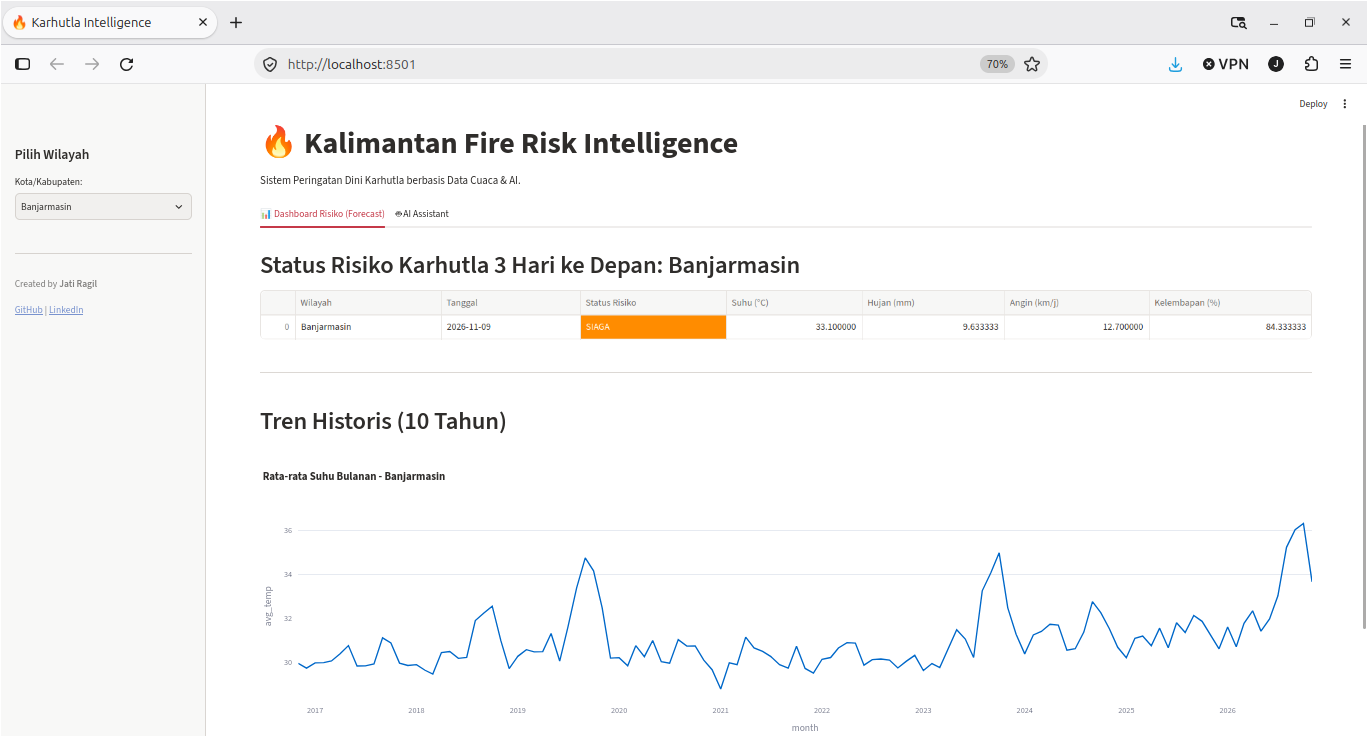
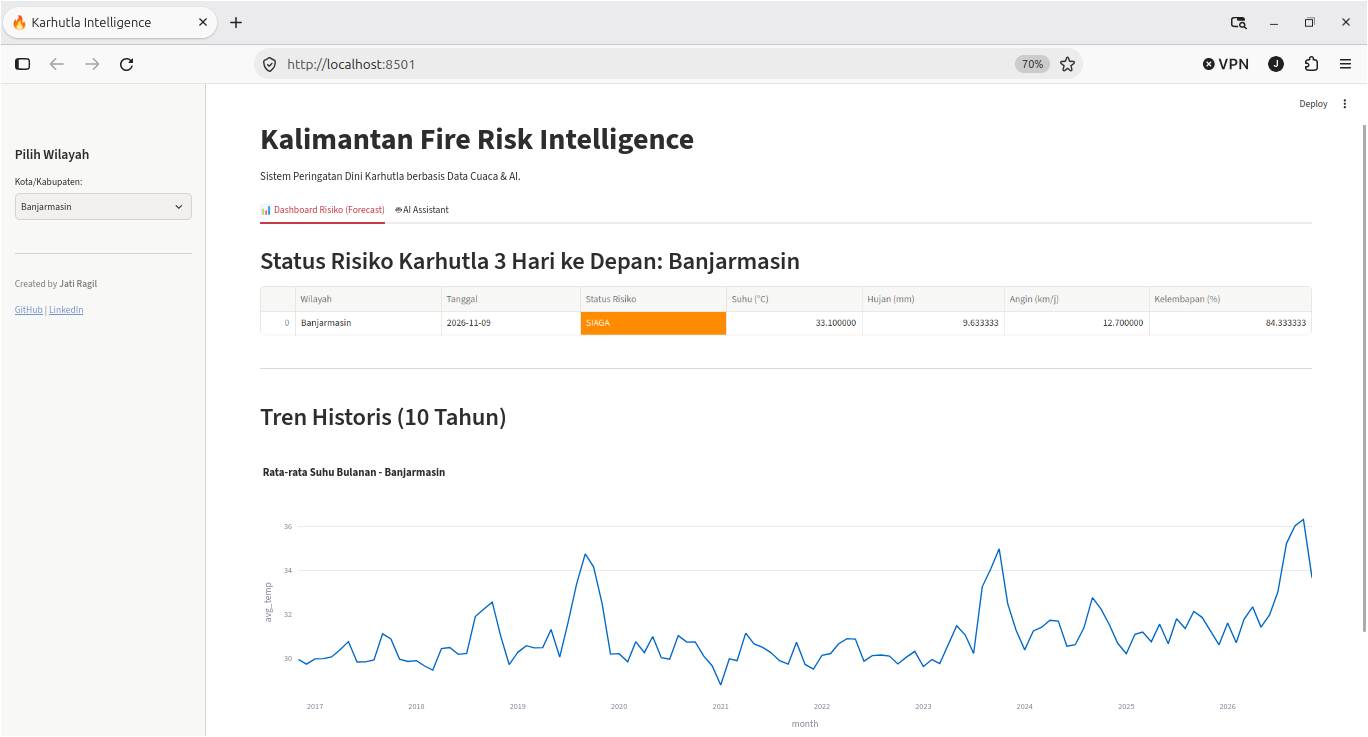
Changing the dasboard UI

diff --git a/dashboard/app.py b/dashboard/app.py
@@ -198,7 +198,7 @@ def ask_chatbot(user_question, city_context):
     return "Maaf, layanan AI sedang sibuk atau belum dikonfigurasi. Silakan coba beberapa saat lagi.", doc_context
 
 # --- UI UTAMA ---
-st.title("🔥 Kalimantan Fire Risk Intelligence")
+st.title("Kalimantan Fire Risk Intelligence")
 st.markdown("Sistem Peringatan Dini Karhutla berbasis Data Cuaca & AI.")
 
 # Sidebar untuk memilih kota
